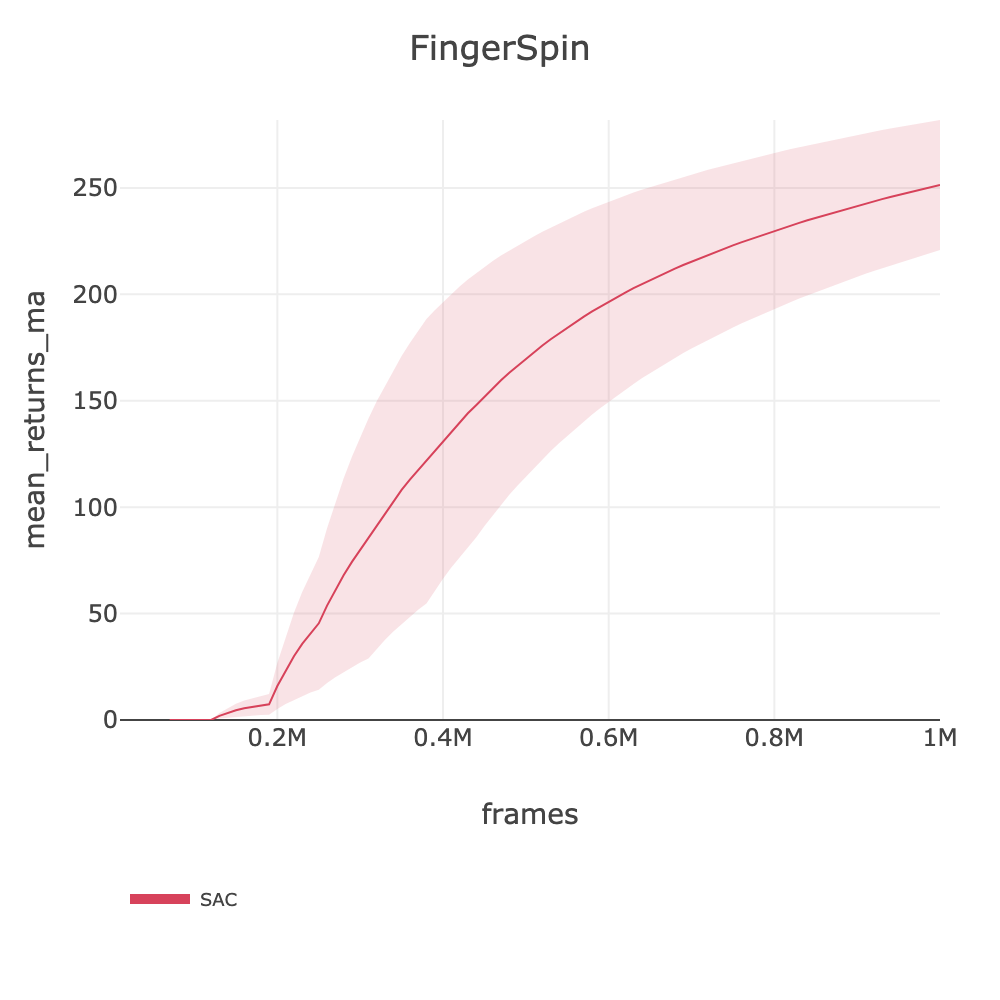
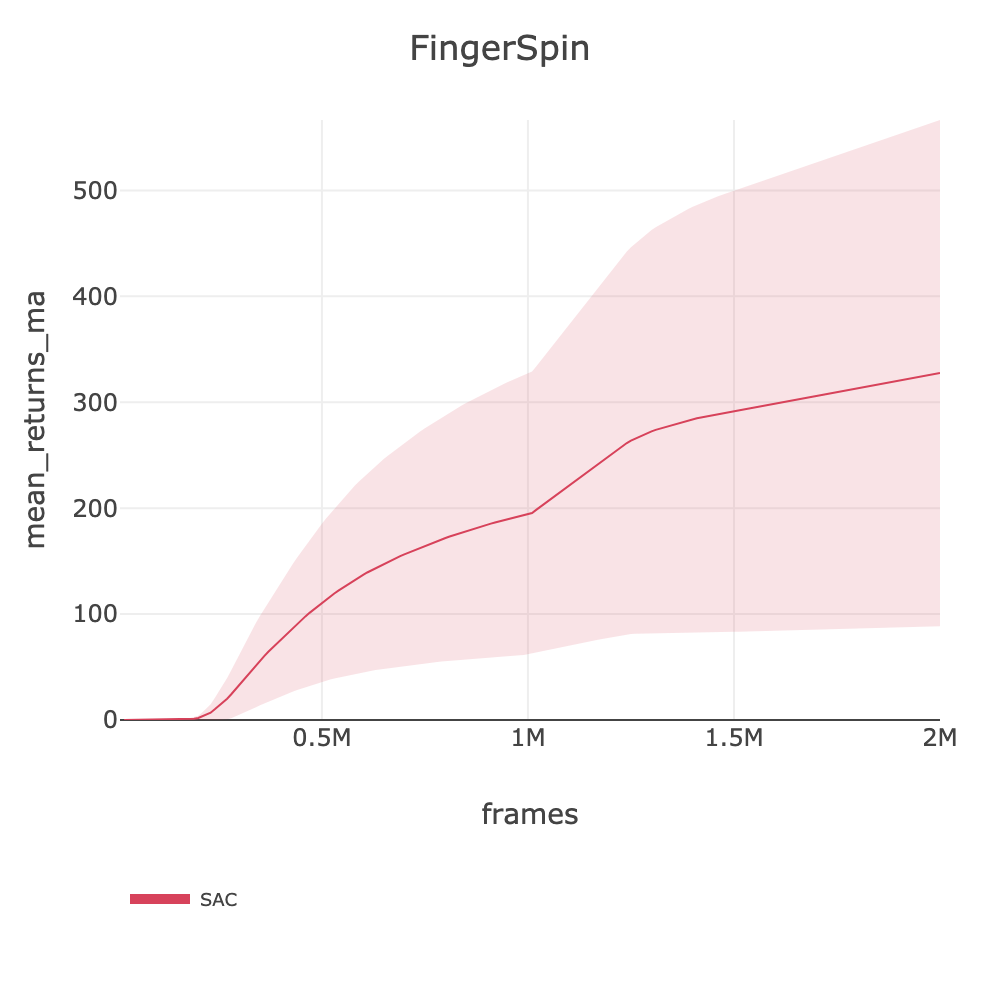
feat: Phase 5 FingerSpin SAC baseline (327.57)

diff --git a/docs/BENCHMARKS.md b/docs/BENCHMARKS.md
@@ -793,7 +793,7 @@ source .env && slm-lab run-remote --gpu -s env=playground/CartpoleBalance -s max
 | playground/CartpoleSwingup | - | 371.40 | [sac_playground_arc_cartpoleswingup_2026_03_06_130653](https://huggingface.co/datasets/SLM-Lab/benchmark-dev/tree/main/data/sac_playground_arc_cartpoleswingup_2026_03_06_130653) |
 | playground/CartpoleSwingupSparse | - | - | - |
 | playground/CheetahRunBackwards | - | - | - |
-| playground/FingerSpin | - | 251.38 | [sac_playground_arc_fast_fingerspin_2026_03_06_111620](https://huggingface.co/datasets/SLM-Lab/benchmark-dev/tree/main/data/sac_playground_arc_fast_fingerspin_2026_03_06_111620) |
+| playground/FingerSpin | - | 327.57 | [sac_playground_arc_fingerspin_2026_03_06_150750](https://huggingface.co/datasets/SLM-Lab/benchmark-dev/tree/main/data/sac_playground_arc_fingerspin_2026_03_06_150750) |
 | playground/FingerTurnEasy | - | - | - |
 | playground/FingerTurnHard | - | - | - |
 | playground/FishSwim | - | - | - |
@@ -801,7 +801,7 @@ source .env && slm-lab run-remote --gpu -s env=playground/CartpoleBalance -s max
 | playground/HopperStand | - | 277.46 | [sac_playground_arc_hopperstand_2026_03_06_125934](https://huggingface.co/datasets/SLM-Lab/benchmark-dev/tree/main/data/sac_playground_arc_hopperstand_2026_03_06_125934) |
 | playground/HumanoidRun | - | - | - |
 | playground/HumanoidStand | - | - | - |
-| playground/PendulumSwingup | 35.74 | - | [ppo_playground_arc_pendulumswingup_2026_03_06_094355](https://huggingface.co/datasets/SLM-Lab/benchmark-dev/tree/main/data/ppo_playground_arc_pendulumswingup_2026_03_06_094355) |
+| playground/PendulumSwingup | 35.74 | 0.00 | [ppo](https://huggingface.co/datasets/SLM-Lab/benchmark-dev/tree/main/data/ppo_playground_arc_pendulumswingup_2026_03_06_094355) [sac](https://huggingface.co/datasets/SLM-Lab/benchmark-dev/tree/main/data/sac_playground_arc_pendulumswingup_2026_03_06_150813) |
 | playground/PointMass | 493.79 | - | [ppo_playground_arc_pointmass_2026_03_06_105141](https://huggingface.co/datasets/SLM-Lab/benchmark-dev/tree/main/data/ppo_playground_arc_pointmass_2026_03_06_105141) |
 | playground/ReacherEasy | 285.63 | - | [ppo_playground_arc_reachereasy_2026_03_06_102444](https://huggingface.co/datasets/SLM-Lab/benchmark-dev/tree/main/data/ppo_playground_arc_reachereasy_2026_03_06_102444) |
 | playground/ReacherHard | - | - | - |
